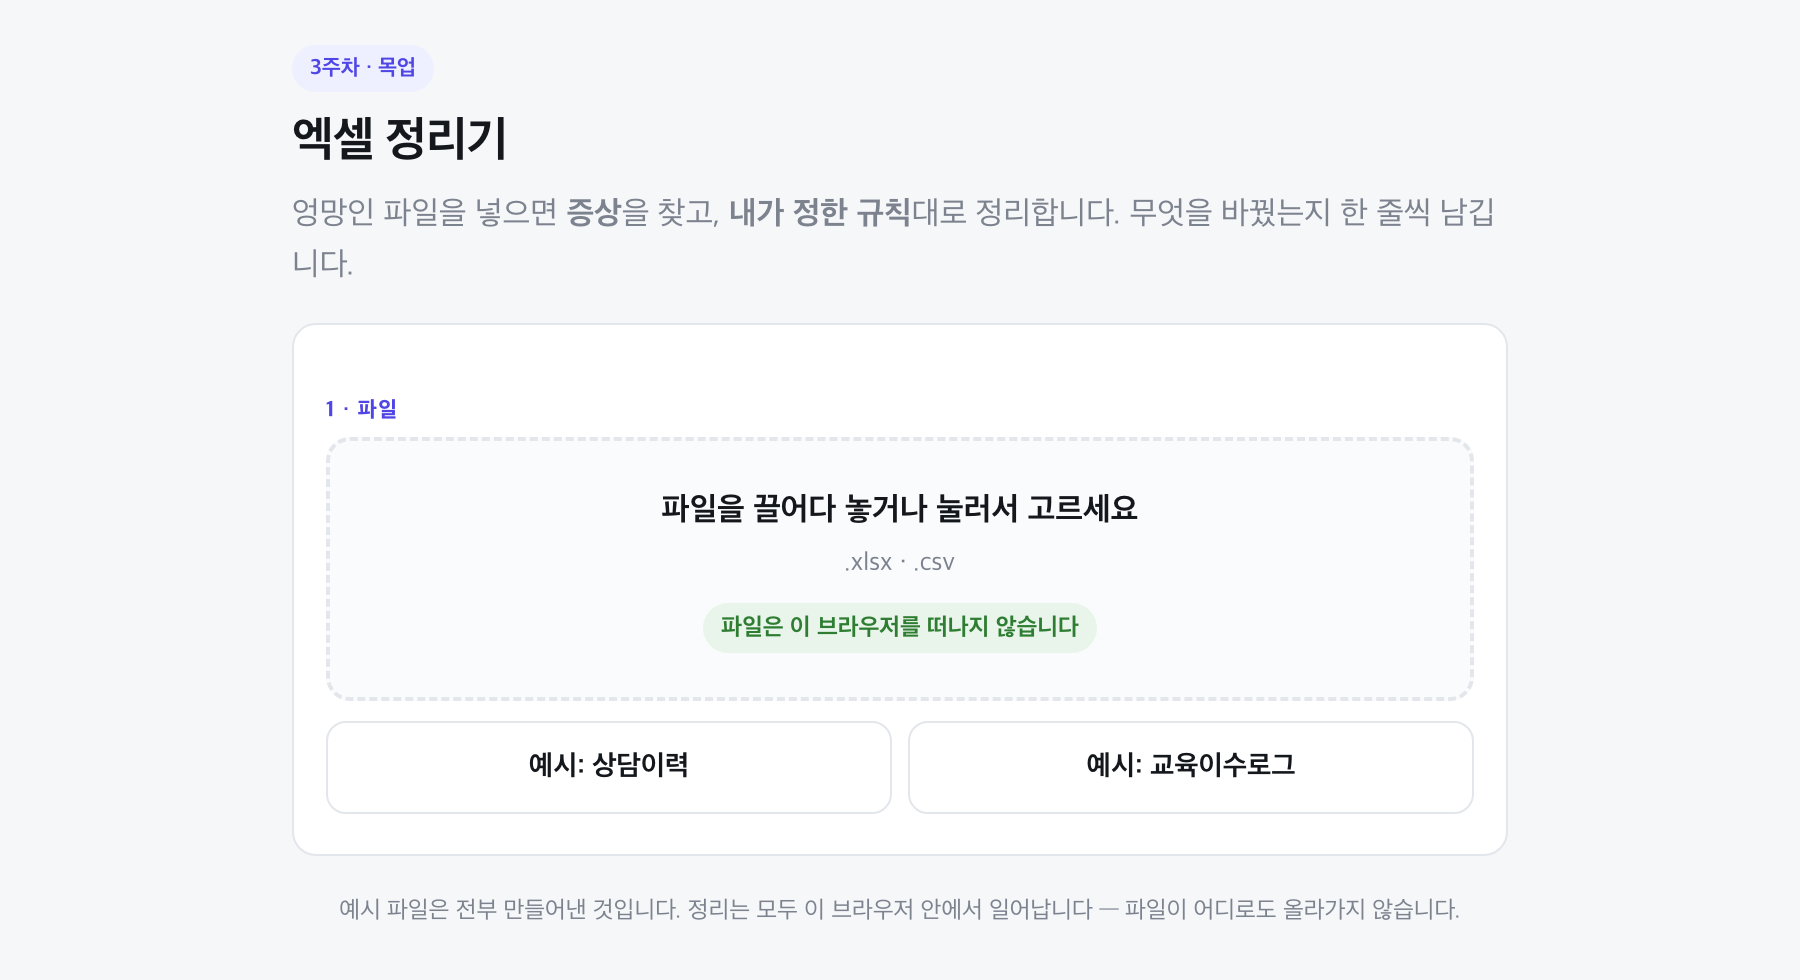
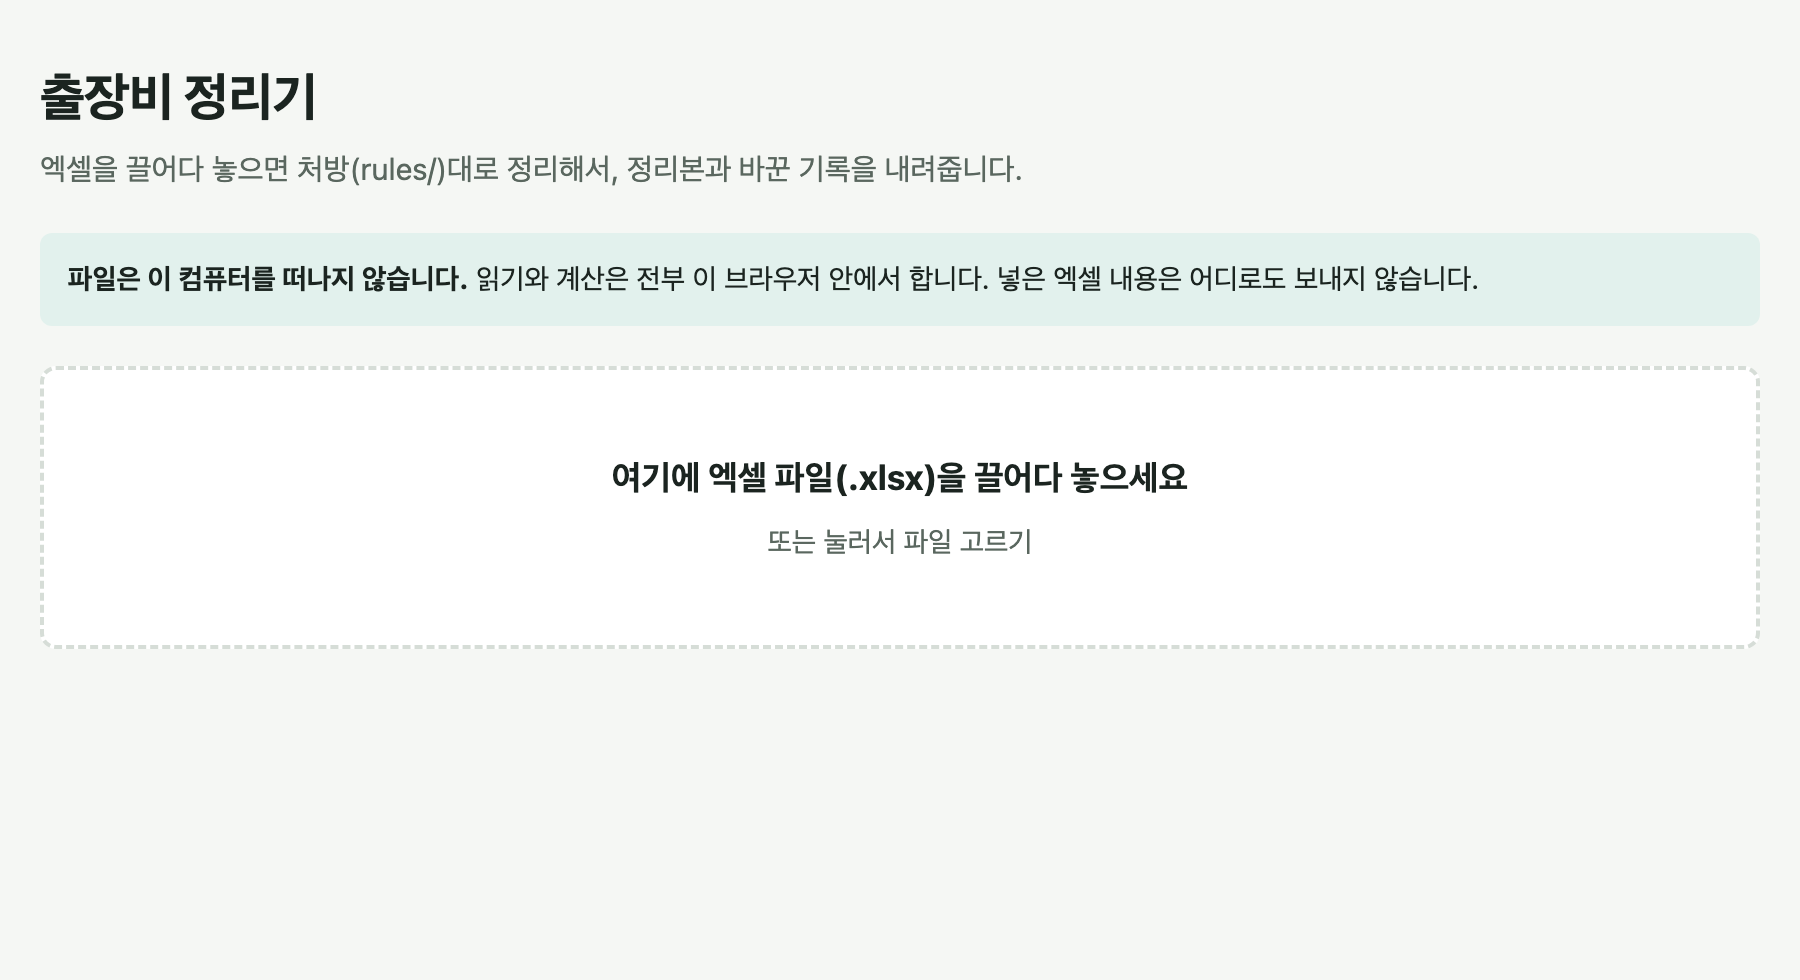
3주 카드 화면을 출장비 정산 정리기 캡처로 넣고, 캡처 자동 스크립트 추가

diff --git a/shot.py b/shot.py
@@ -1,0 +1,27 @@
+"""portfolio.json 에서 img 가 비어 있는 칸의 url 을 찍어 img/w{주}.png 로 넣는다.
+
+    python3 shot.py          # img 가 빈 칸만
+    python3 shot.py 3        # 3주 칸을 다시 찍기 (이미 있어도)
+"""
+import json, subprocess, sys
+from pathlib import Path
+
+CHROME = "/Applications/Google Chrome.app/Contents/MacOS/Google Chrome"
+HERE = Path(__file__).parent
+P = HERE / "portfolio.json"
+
+data = json.loads(P.read_text(encoding="utf-8"))
+redo = {int(a) for a in sys.argv[1:]}
+
+for c in data["cards"]:
+    if not c.get("url") or (c.get("img") and c["week"] not in redo):
+        continue
+    rel = f"img/w{c['week']}.png"
+    subprocess.run([CHROME, "--headless=new", "--disable-gpu", "--hide-scrollbars",
+                    "--force-device-scale-factor=2", "--window-size=900,490",
+                    "--virtual-time-budget=5000", f"--screenshot={HERE / rel}", c["url"]],
+                   check=True, capture_output=True)
+    c["img"] = rel
+    print(f"{c['week']}주  {c['url']}  ->  {rel}")
+
+P.write_text(json.dumps(data, ensure_ascii=False, indent=2) + "\n", encoding="utf-8")

diff --git a/README.md b/README.md
@@ -14,6 +14,7 @@
 
 - **`judgment` 가 가장 중요합니다.** 무엇을 만들었는지보다 **무엇을 정했는지**가 남에게 보여줄 것입니다
 - 화면 캡처를 `img/` 에 넣고 `img` 에 경로를 적습니다 (없으면 비워 둡니다)
+  - 직접 찍지 않아도 됩니다: `img` 를 `""` 로 두고 `python3 shot.py` 를 돌리면 `url` 화면을 찍어 `img/w{주}.png` 로 넣습니다. 다시 찍으려면 `python3 shot.py 3`
 - 9주차에 `proposal` 을 채웁니다 — 제안 1건
 
 ## 올리기
